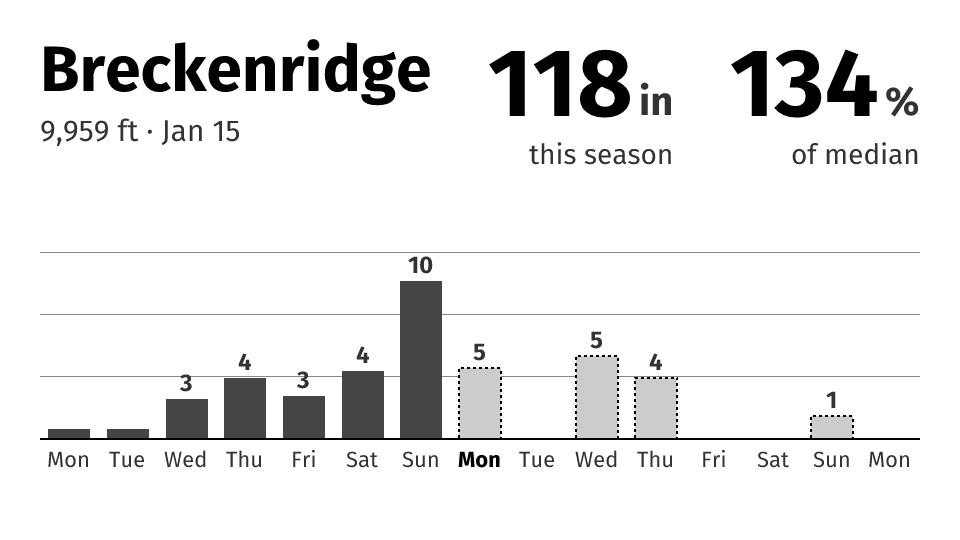
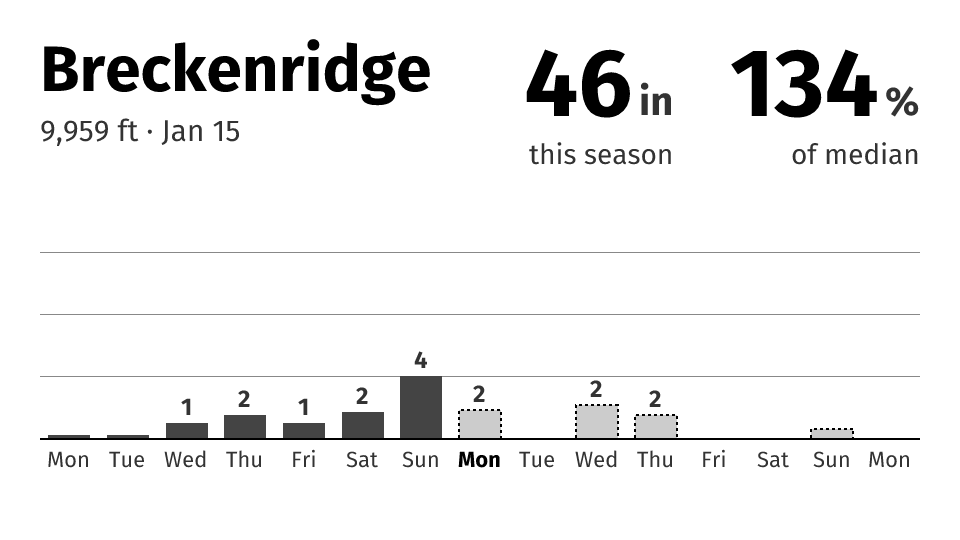
fix(snow): snowfall was centimeters mislabeled as inches
Open-Meteo has no snowfall_unit parameter — the API silently ignores
unknown params and returns snowfall_sum in cm; precipitation_unit=inch is
what converts it. Both provider URLs now use precipitation_unit, and
fetchJson asserts the response's declared daily_units.snowfall_sum is
'inch' so a silent unit change can never ship numbers again.

The bug was internally consistent (bars, season total and the stored
median baseline were all cm), so "% of median" was correct throughout;
every absolute "in" figure was 2.54x too big. The checked-in fixture is
regenerated in true inches (46" season / 134% of median / 4" peak day).
Existing per-location KV state (snow_total, snow_baseline) is cm and must
be wiped by re-registering the location.

diff --git a/worker/src/providers/open-meteo-snow.js b/worker/src/providers/open-meteo-snow.js
@@ -88,7 +88,15 @@ async function fetchJson(url) {
     const body = await response.text();
     throw new Error(`Open-Meteo error: ${response.status} ${response.statusText} - ${body}`);
   }
-  return response.json();
+  const data = await response.json();
+  // Fail loudly if the API ever hands back a unit we don't expect — every
+  // downstream number (bars, season totals, the stored baseline) assumes
+  // inches, and a silent cm response is exactly the bug this guards against.
+  const unit = data.daily_units?.snowfall_sum;
+  if (unit !== 'inch') {
+    throw new Error(`Open-Meteo returned snowfall_sum in '${unit}', expected 'inch'`);
+  }
+  return data;
 }
 
 /** The daily forecast window: 7 past days + today + 7 forecast days. */
@@ -96,7 +104,10 @@ async function fetchForecastWindow(loc) {
   const url = `${FORECAST_URL}?latitude=${loc.lat}&longitude=${loc.lon}` +
     `&elevation=${loc.elevation_ft ? Math.round(loc.elevation_ft * 0.3048) : ''}` +
     `&daily=snowfall_sum&past_days=${PAST_DAYS}&forecast_days=${FORECAST_DAYS}` +
-    `&snowfall_unit=inch&timezone=auto`;
+    // NB: precipitation_unit is what converts snowfall_sum to inches — there
+    // is NO snowfall_unit parameter (the API silently ignores unknown params
+    // and returns cm). Verified against the response's daily_units field.
+    `&precipitation_unit=inch&timezone=auto`;
   const data = await fetchJson(url);
   const days = data.daily.time.map((date, i) => ({
     date,
@@ -112,7 +123,7 @@ async function fetchArchiveDaily(loc, startDate, endDate) {
   const url = `${ARCHIVE_URL}?latitude=${loc.lat}&longitude=${loc.lon}` +
     `&elevation=${loc.elevation_ft ? Math.round(loc.elevation_ft * 0.3048) : ''}` +
     `&start_date=${startDate}&end_date=${endDate}` +
-    `&daily=snowfall_sum&snowfall_unit=inch&timezone=auto`;
+    `&daily=snowfall_sum&precipitation_unit=inch&timezone=auto`;
   const data = await fetchJson(url);
   const out = {};
   for (let i = 0; i < data.daily.time.length; i++) {
